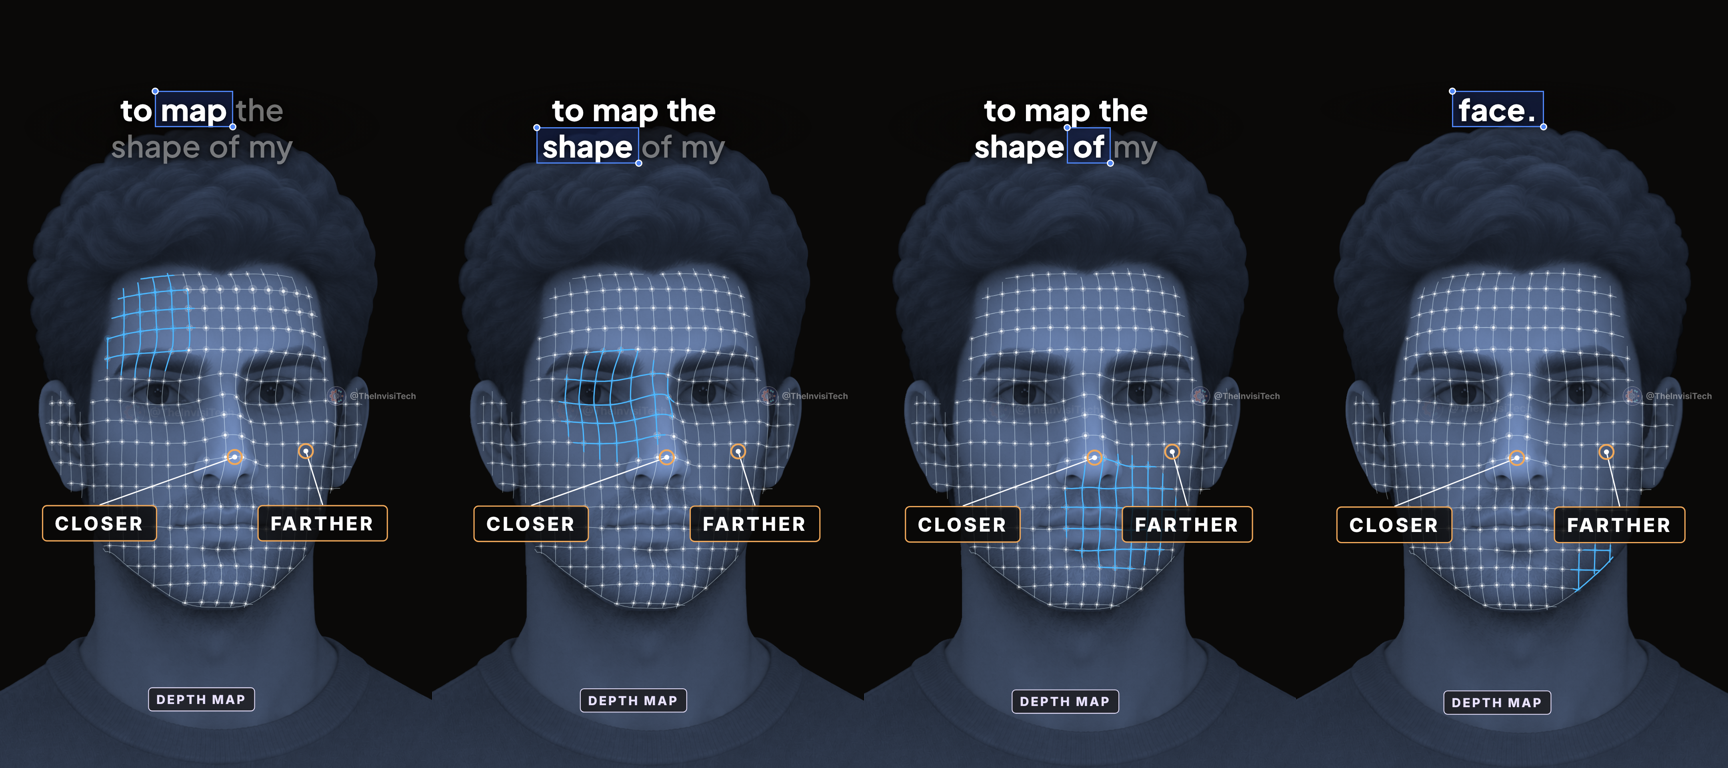
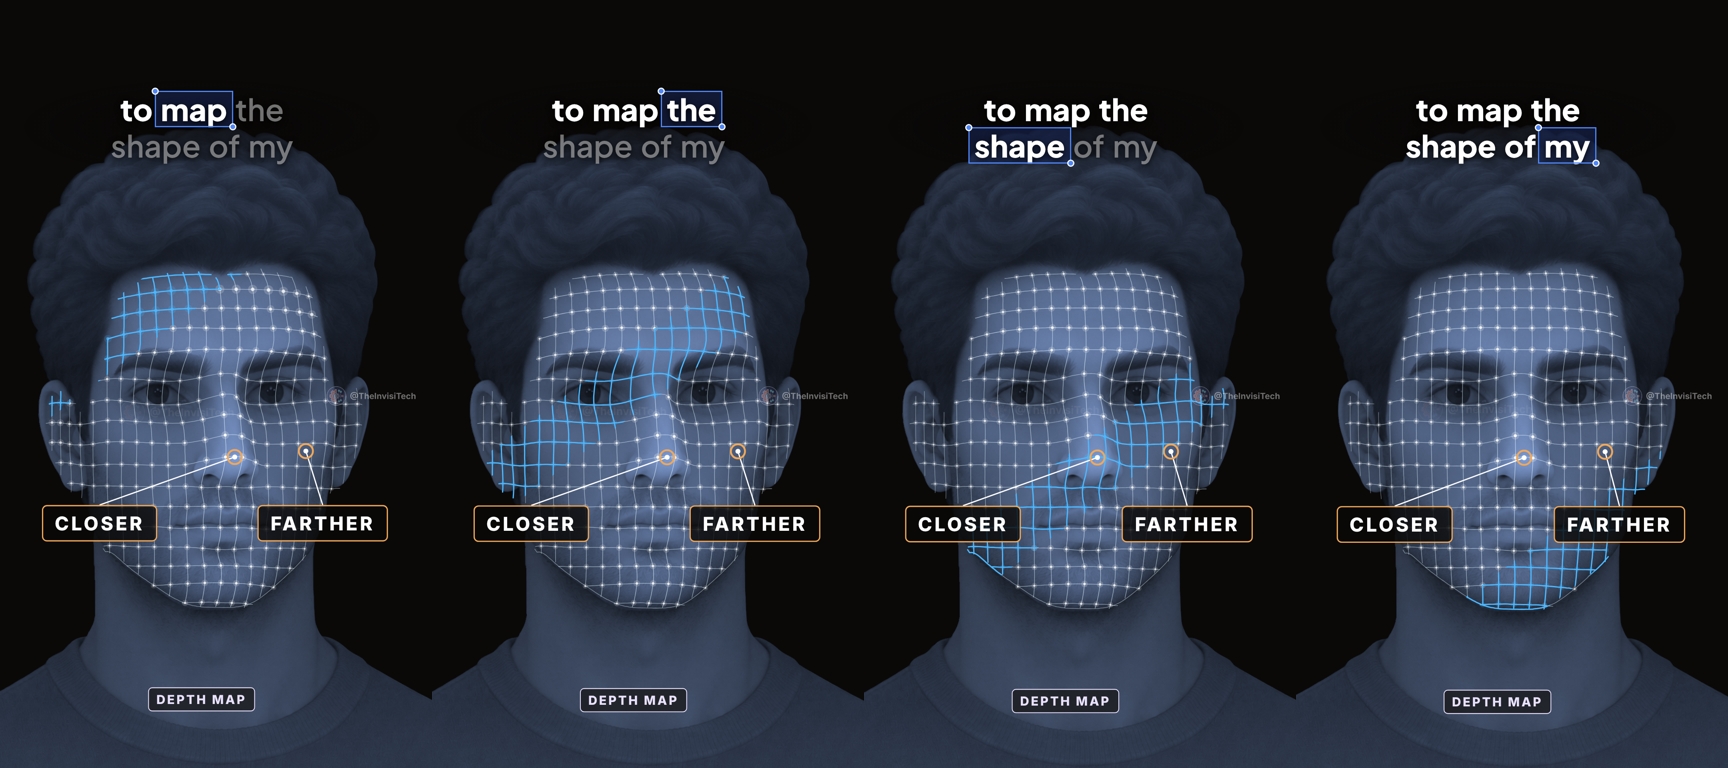
Mirror Short: depth wave is a wide diagonal band that covers the whole face as it travels
Claude-Session: https://claude.ai/code/session_01GXcKc5WnFrVWBsHLe8YpAy

diff --git a/face-id/mirror-short/src/scenes/Scan.tsx b/face-id/mirror-short/src/scenes/Scan.tsx
@@ -63,15 +63,14 @@ const FaceView: React.FC<{ s: number; depth0: number | null; flash: number | nul
         const far = Math.max(...P.map((q) => Math.hypot(q[0] - front.nose[0], q[1] - front.nose[1])));
         const when = (k: number) => t0 + (Math.hypot(P[k][0] - front.nose[0], P[k][1] - front.nose[1]) / far) * SPAN;
         const xs = L.map((q) => q[0]), ys = L.map((q) => q[1]), X0 = Math.min(...xs), X1 = Math.max(...xs), Y0 = Math.min(...ys), Y1 = Math.max(...ys);
-        // the scan is a wave: a soft round patch of blue that starts on one side of the forehead and travels
-        // diagonally down across the nose to the opposite side of the jaw; each pass starts from the other side
-        const CYC = 44, T0 = t0 + SPAN - 6, pass = Math.max(0, Math.floor((s - T0) / CYC)), sweep = s < T0 ? -1 : ((s - T0) % CYC) / CYC;
-        const MX = (X0 + X1) / 2, WX = X1 - X0, WY = Y1 - Y0, side = pass % 2 ? -1 : 1, e = sweep * sweep * (3 - 2 * sweep), RW = 0.21 * WX;
-        // path: forehead (one side) -> bridge of the nose -> cheek and jaw (other side), as a smooth curve
-        const PA = [MX - side * 0.24 * WX, Y0 + 0.1 * WY], PB = [MX - side * 0.02 * WX, Y0 + 0.5 * WY], PC = [MX + side * 0.3 * WX, Y0 + 0.92 * WY];
-        const wx = (1 - e) * (1 - e) * PA[0] + 2 * e * (1 - e) * PB[0] + e * e * PC[0], wy = (1 - e) * (1 - e) * PA[1] + 2 * e * (1 - e) * PB[1] + e * e * PC[1];
-        const fade = sweep < 0 ? 0 : Math.min(1, sweep * 8, (1 - sweep) * 8);
-        const band = (x: number, y: number) => (sweep < 0 ? 0 : fade * Math.max(0, 1 - Math.hypot(x - wx, y - wy) / RW));
+        // the scan is a wave: a wide band of blue, lying across the whole face, that travels diagonally from the upper
+        // left of the forehead down over the nose to the lower right of the jaw, so every part of the web is covered
+        const CYC = 40, T0 = t0 + SPAN - 6, sweep = s < T0 ? -1 : ((s - T0) % CYC) / CYC;
+        const MX = (X0 + X1) / 2, MY = (Y0 + Y1) / 2, DX = 0.6, DY = 0.8, HW = 85;      // (DX, DY): direction of travel
+        const along = (x: number, y: number) => (x - MX) * DX + (y - MY) * DY;
+        const ext = Math.max(...L.map((q) => Math.abs(along(q[0], q[1])))) + HW, pos = -ext + 2 * ext * sweep;
+        const band = (x: number, y: number) => (sweep < 0 ? 0 : Math.max(0, 1 - Math.abs(along(x, y) - pos) / HW));
+        const at = (a: number, t: number) => `${MX + DX * a - DY * t},${MY + DY * a + DX * t}`;
         return (
           <svg width={1080} height={1920} style={{ position: 'absolute', inset: 0 }}>
             {(mesh.lines as number[][][]).map((ln, i) => {
@@ -90,7 +89,7 @@ const FaceView: React.FC<{ s: number; depth0: number | null; flash: number | nul
               </g>
             </g>
             {/* the scan never leaves the web: it is clipped to the web's own triangles, so it follows the face as it moves */}
-            <defs><clipPath id="band-clip"><circle cx={wx} cy={wy} r={RW * 0.9 * fade} /></clipPath><clipPath id="scan-clip">{(mesh.tris as number[][]).map(([a, b, c], i) => <polygon key={i} points={`${L[a][0]},${L[a][1]} ${L[b][0]},${L[b][1]} ${L[c][0]},${L[c][1]}`} />)}</clipPath></defs>
+            <defs><clipPath id="band-clip"><polygon points={`${at(pos - HW * 0.8, -1200)} ${at(pos - HW * 0.8, 1200)} ${at(pos + HW * 0.8, 1200)} ${at(pos + HW * 0.8, -1200)}`} /></clipPath><clipPath id="scan-clip">{(mesh.tris as number[][]).map(([a, b, c], i) => <polygon key={i} points={`${L[a][0]},${L[a][1]} ${L[b][0]},${L[b][1]} ${L[c][0]},${L[c][1]}`} />)}</clipPath></defs>
           </svg>
         );
       })()}
